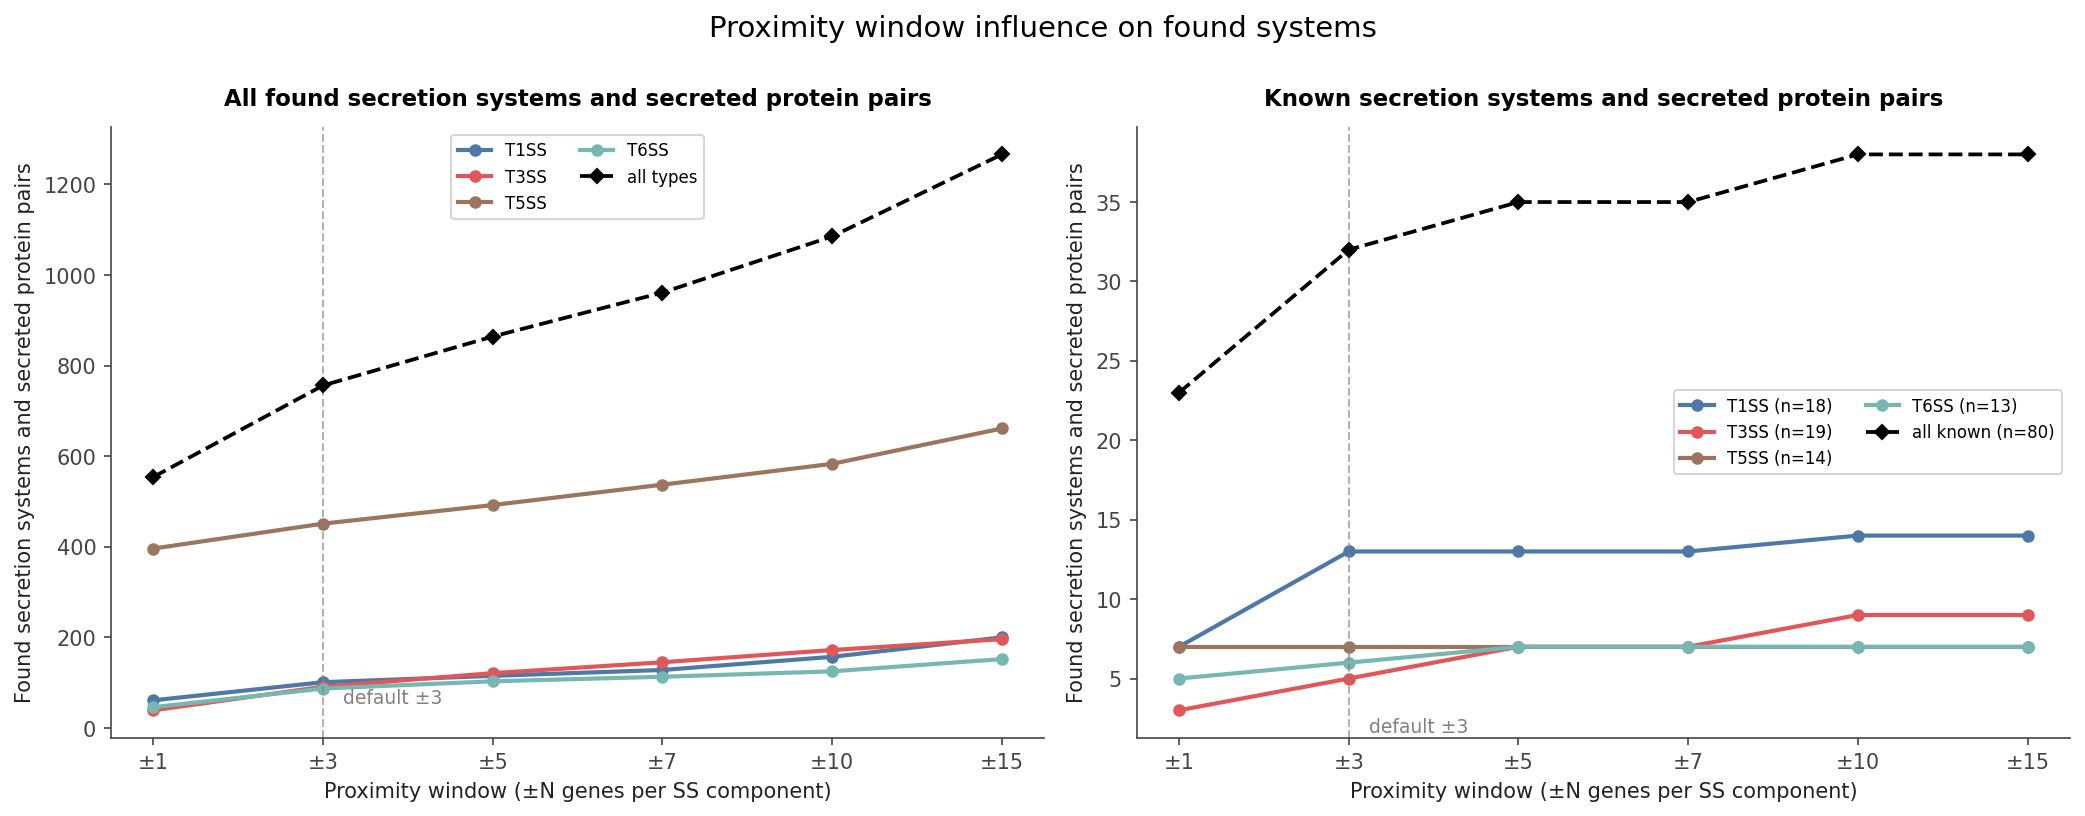
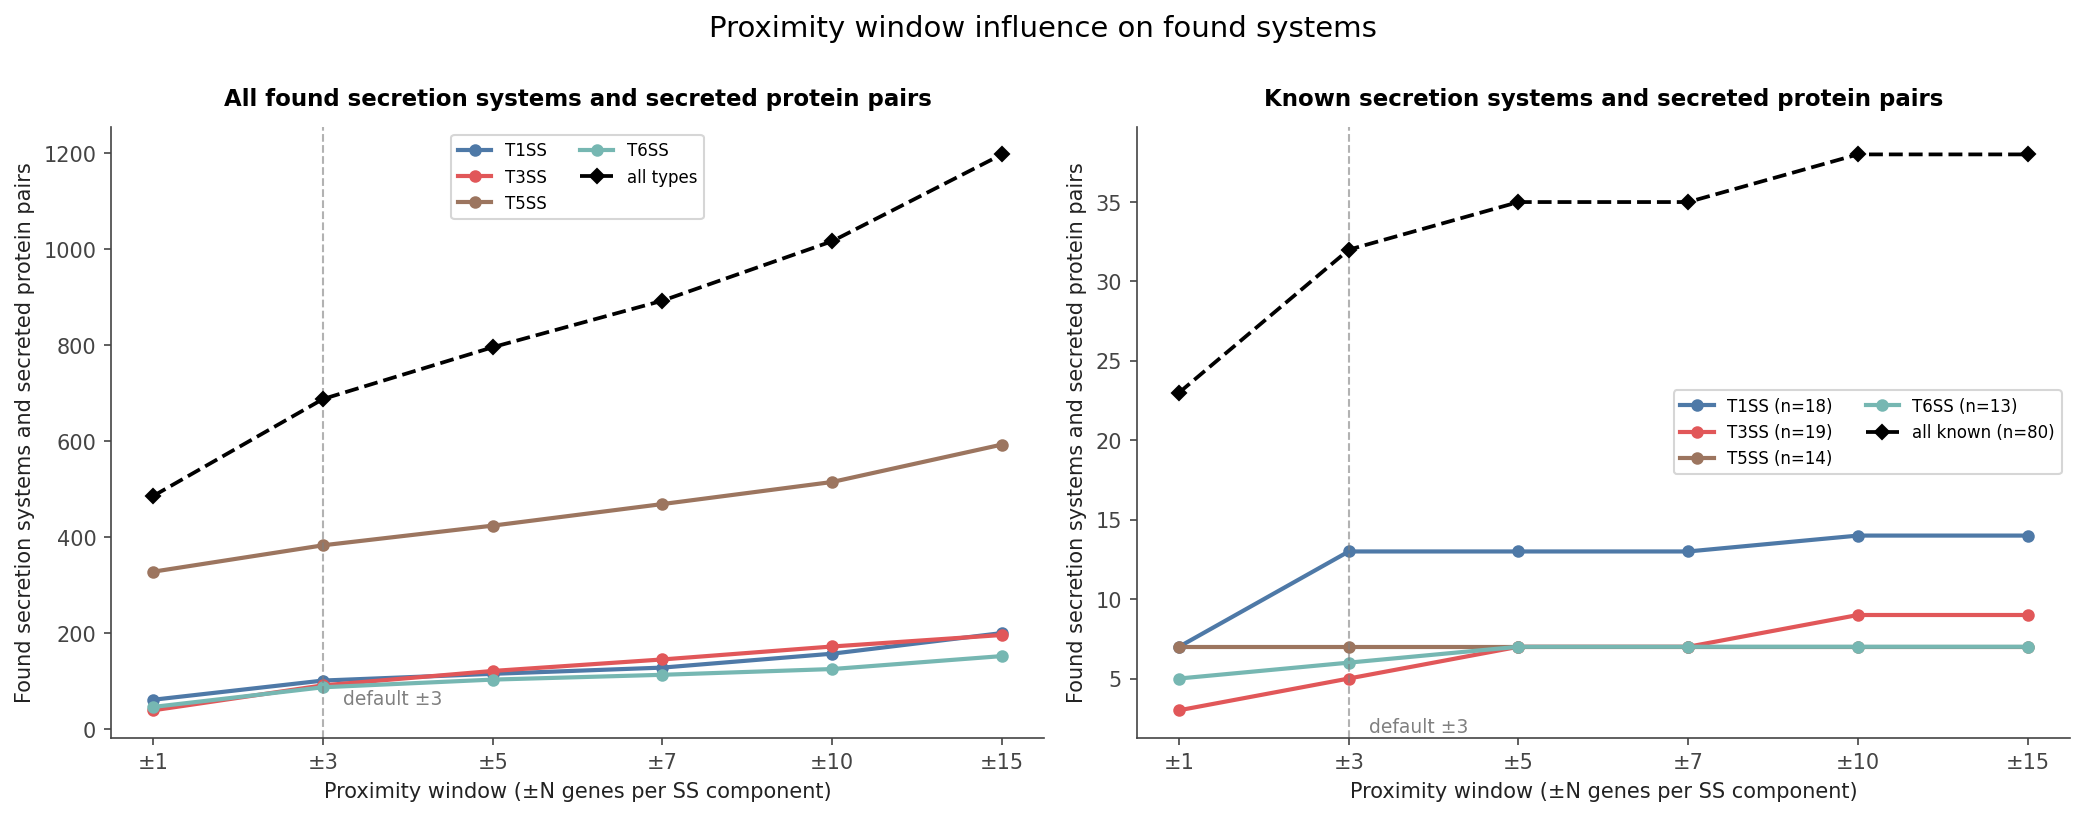
docs(benchmark): regenerate robustness figures without T5bSS-self
The t5ss fix drops the TpsB translocator from substrates. Regenerate the two robustness
figures (and the cited all-pairs fragmentation recovery: 96->95% at 50 contigs, 70->68%
at 500) with those 68 panel-wide calls excluded, so the panels match current behaviour.
Known-pair recall and the proximity story are unchanged.

diff --git a/docs/benchmark/benchmarks.md b/docs/benchmark/benchmarks.md
@@ -53,8 +53,8 @@ Draft assemblies split a genome into contigs, which can separate a secreted prot
 from its machinery. Each of the 52 genomes was shattered into 1, 5, 20, 50, 100, 250,
 and 500 contigs (uniform-random breakpoints, median contig N50 falling from 3.6 Mb to
 13 kb) and re-run; recovery is the fraction of the complete-genome pairs still found.
-At 50 contigs (120 kb N50) 96% of all found pairs and 88% of the known pairs are still
-recovered; at 500 contigs (13 kb N50, a poor short-read draft) 70% and 55% remain.
+At 50 contigs (120 kb N50) 95% of all found pairs and 88% of the known pairs are still
+recovered; at 500 contigs (13 kb N50, a poor short-read draft) 68% and 55% remain.
 Each fragmentation level is an independent random
 shatter and thus
 carries sampling variance that can cause a rise between levels.
